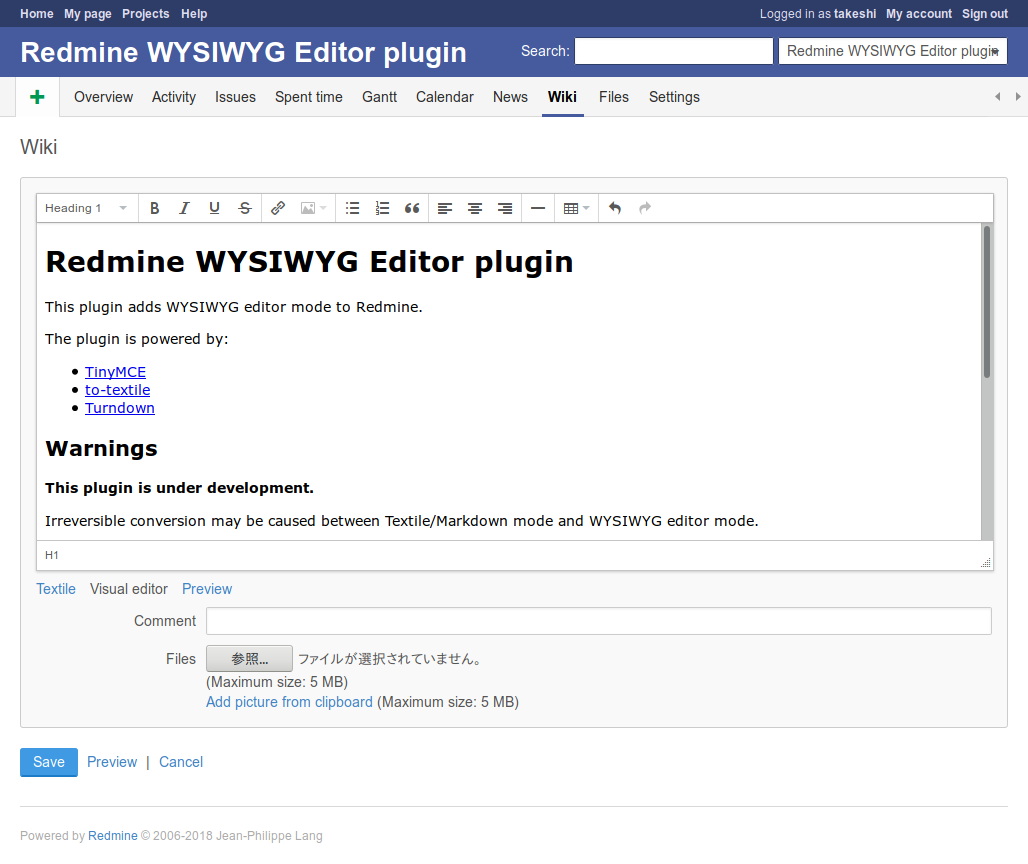
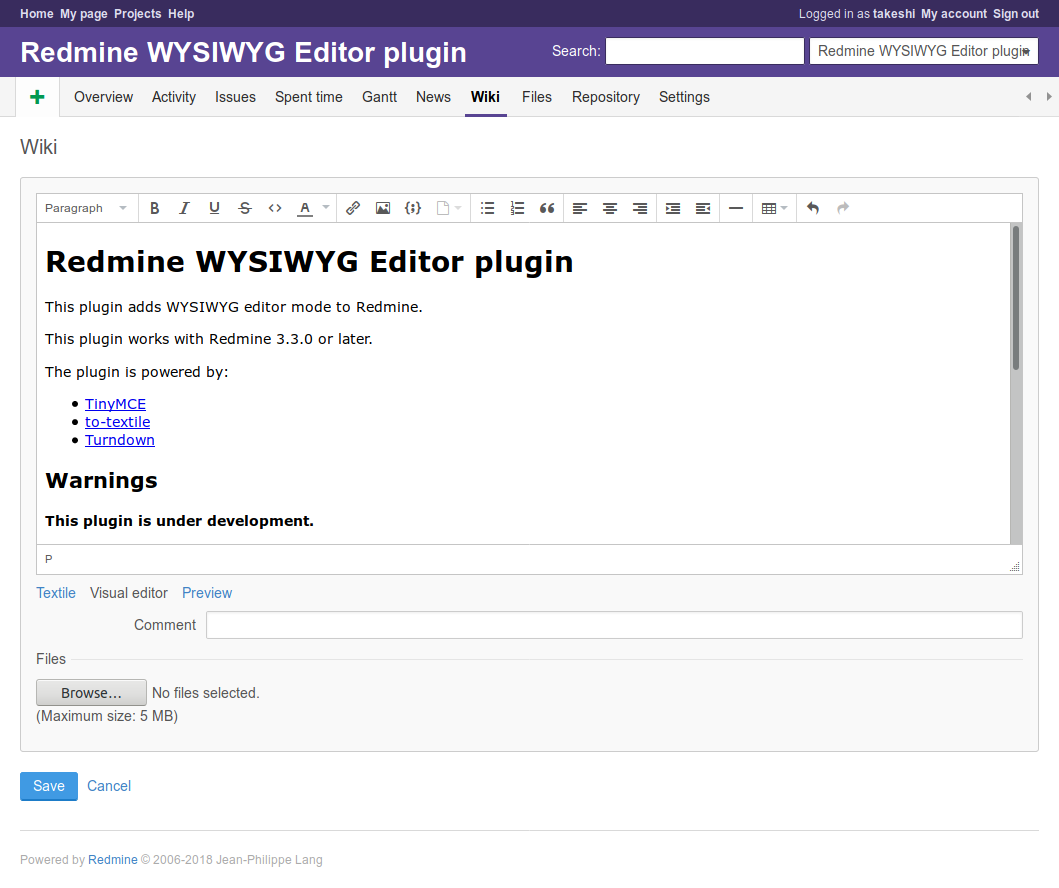
Update README

diff --git a/README.md b/README.md
@@ -2,6 +2,8 @@
 
 This plugin adds WYSIWYG editor mode to Redmine.
 
+This plugin works with Redmine 3.3.0 or later.
+
 ![](doc/img/screenshot.png)
 
 The plugin is powered by:
